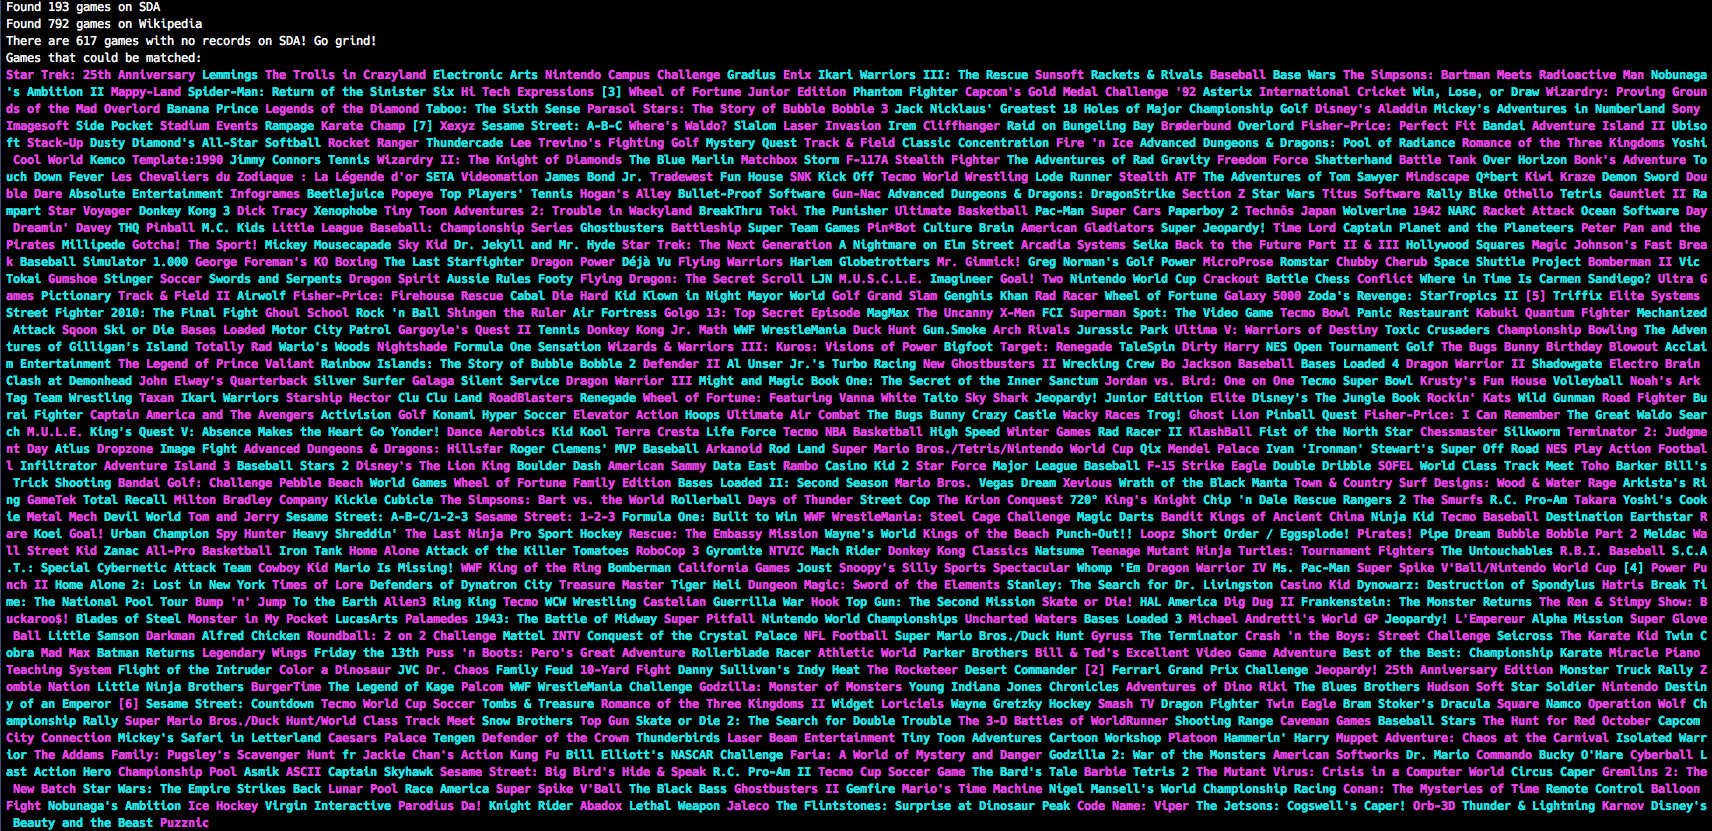
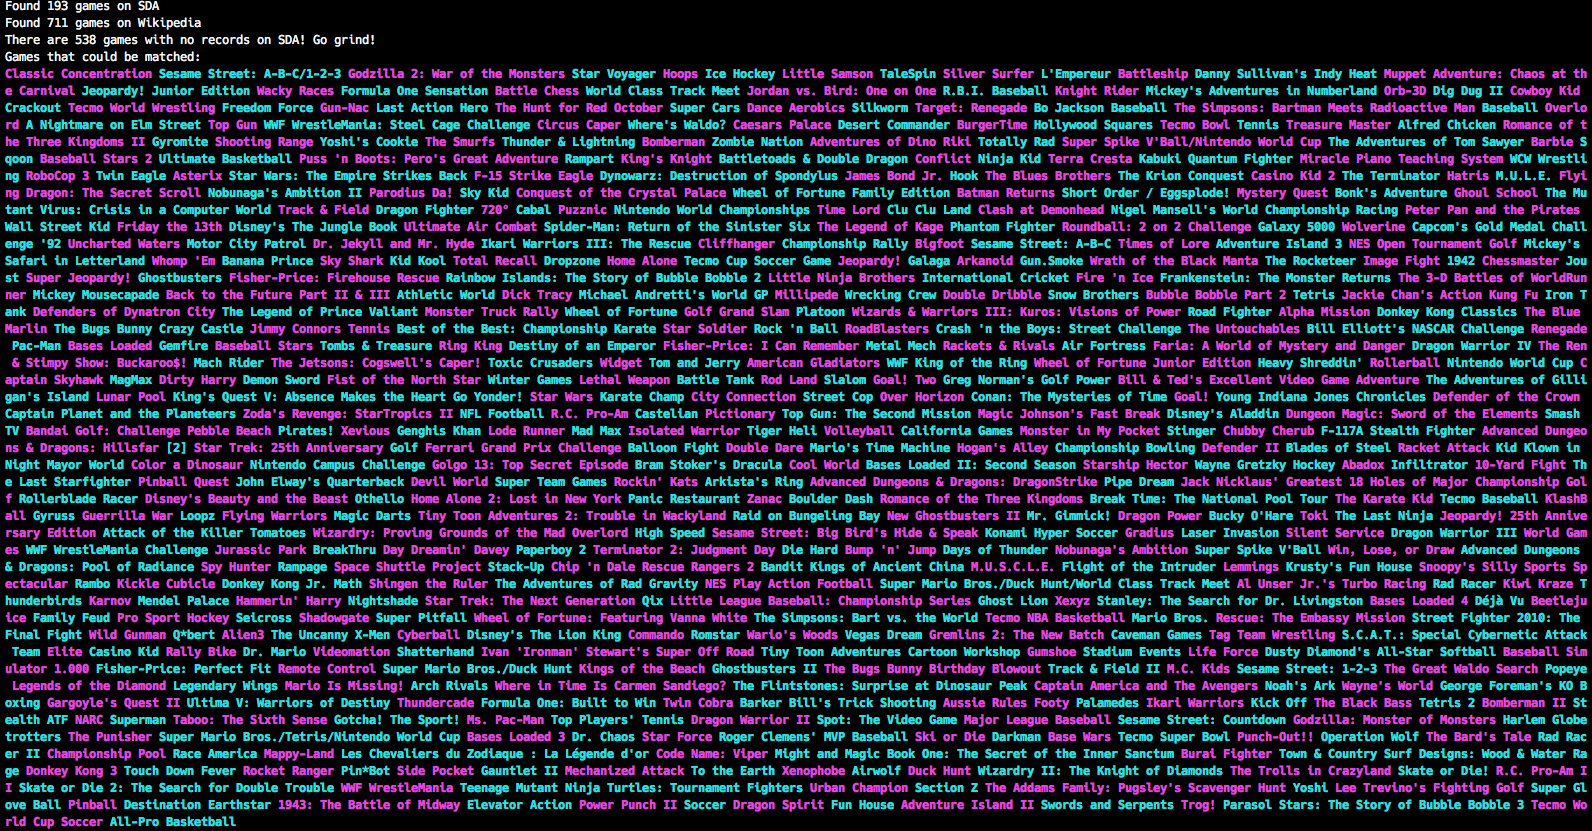
Fix nes2 example

diff --git a/examples/beautiful_soup/nes2.py b/examples/beautiful_soup/nes2.py
@@ -58,8 +58,8 @@ def get_all_nes_games():
     # HTML is not broken, so Use lxml parser,
     # which is a whole lot faster.
     soup = BeautifulSoup(response.text, 'lxml')
-    game_list = soup.find('table')
-    return [a.string for a in game_list.find_all('a')]
+    game_list = soup.find('table').find_all('tr')[1:]
+    return [tr.find('a').string for tr in game_list]
 
 
 def alternating_color():
